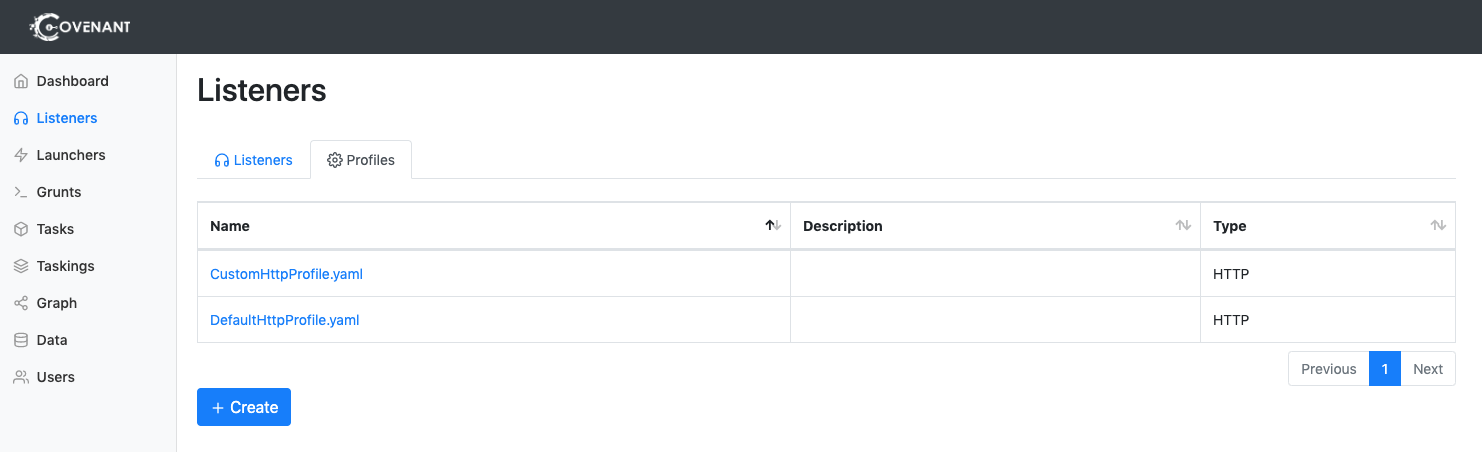
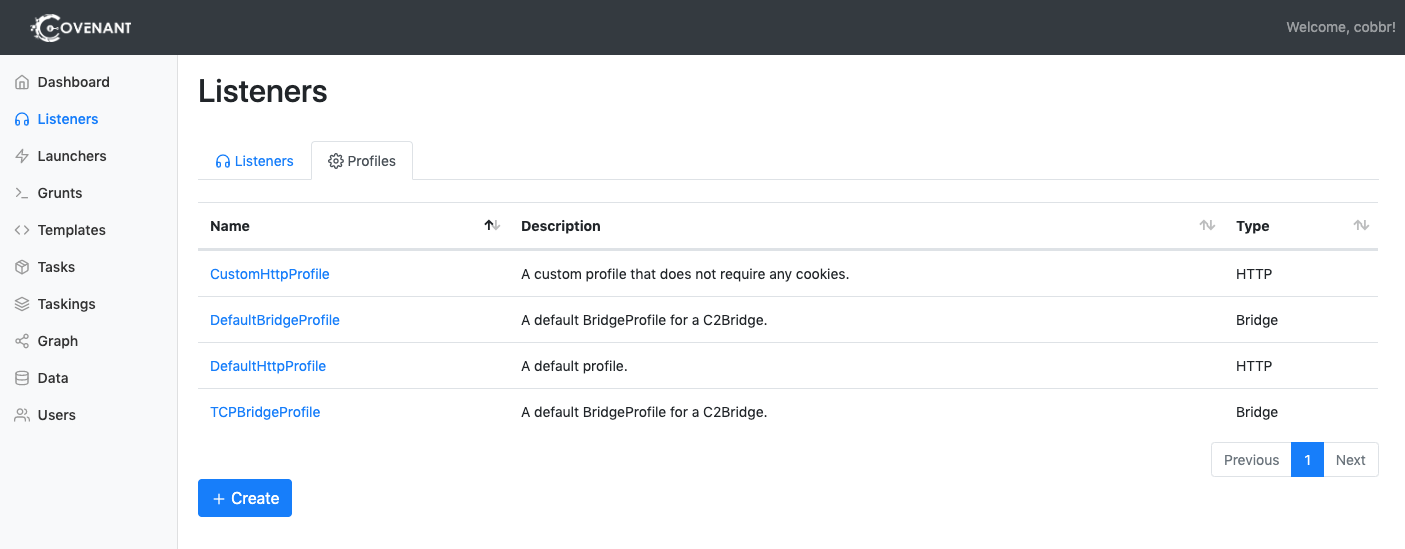
Add C2Bridges info

diff --git a/C2Bridges.md b/C2Bridges.md
@@ -1,0 +1,145 @@
+## C2Bridges
+
+C2Bridges are used to develop an outbound command and control protocol without editing any Covenant code. For developers that feel comfortable integrating new listeners, a new C2 protocol should be added as a first-class new listener type that is fully integrated into the interface. However, it may be faster in some situations to create a C2Bridge outside of Covenant and connect it with a `BridgeListener` for proof-of-concepts or testing out new protocols.
+
+Developers can use the [C2Bridge](https://github.com/cobbr/C2Bridge) project as a template for creating new C2Bridges. Within the C2Bridge project, there is an abstract `C2Bridge` class. A developer can inherit from this class and implement the needed functions to read and write from implants to the BridgeListener using the new chosen C2 protocol.
+
+```
+using System.Threading;
+using System.Threading.Tasks;
+
+namespace C2Bridge
+{
+    /// <summary>
+    /// IC2Bridge is an interface implemented by the C2Bridge class.
+    /// </summary>
+    public interface IC2Bridge
+    {
+        Task RunAsync(CancellationToken token);
+    }
+
+    /// <summary>
+    /// C2Bridge is an abstract class that new C2Bridges should inherit from. 
+    /// </summary>
+    public abstract class C2Bridge : IC2Bridge
+    {
+        // The BridgeConnector handles communication between the Covenant server and the C2Bridge
+        protected BridgeConnector BridgeConnector { get; set; }
+        // The BridgeProfile handles parsing and formatting data passed between the implant and Covenant
+        protected BridgeProfile BridgeProfile { get; set; }
+
+        /// <summary>
+        /// The constructor for the C2Bridge. New C2Bridges should use their own constructor that accepts
+        /// any command line arguments needed for the C2Bridge to function.
+        /// </summary>
+        /// <param name="Connector">The BridgeConnector that handles communication with the Covenant server.</param>
+        /// <param name="Profile">The BridgeProfile that handles the parsing and formatting of data.</param>
+        protected C2Bridge(BridgeConnector Connector, BridgeProfile Profile)
+        {
+            this.BridgeConnector = Connector;
+            this.BridgeProfile = Profile;
+            BridgeConnector.OnReadBridge += OnReadBridge;
+        }
+
+        /// <summary>
+        /// The RunAsync function is the main function that should start the C2Bridge and continue to run until you
+        /// are done with your operation. C2Bridge developers should implement the logic to start and run the listener
+        /// within this function.
+        /// </summary>
+        /// <param name="Token">The CancellationToken that will cancel the C2Bridge if the source of the token is cancelled.</param>
+        /// <returns></returns>
+        public abstract Task RunAsync(CancellationToken Token);
+
+        /// <summary>
+        /// The OnReadBridge function is called each time data is read from the Covenant server meant for an implant.
+        /// C2Bridge developers should implement the logic to determine which implant this data is meant for and write
+        /// this data to the implant.
+        /// </summary>
+        /// <param name="sender">
+        /// Sender is the object that called the OnReadBridge function. C2Bridge developers can safely ignore this parameter.
+        /// </param>
+        /// <param name="args">Args contains the data that should be written from the Covenant server to the implant.</param>
+        protected abstract void OnReadBridge(object sender, BridgeConnector.ReadBridgeArgs args);
+
+        /// <summary>
+        /// The WriteToConnector function handles writing data from an implant to the Covenant server. This logic should be the
+        /// same for all C2Bridge types, but can be overloaded by the C2Bridge developer if custom logic is needed.
+        ///
+        /// When calling this function, the returned GUID string should be used to track implant GUID values by the C2Bridge.
+        /// </summary>
+        /// <param name="Data">The data read from the implant that should be written to the Covenant server.</param>
+        /// <returns>
+        /// Returns the GUID value parsed out of the Data. This value should be used to track implant GUID values by the C2Bridge.
+        /// </returns>
+        protected virtual string WriteToConnector(string Data)
+        {
+            var parsed = this.BridgeProfile.ParseWrite(Data);
+            if (parsed != null)
+            {
+                _ = this.BridgeConnector.Write(this.BridgeProfile.FormatRead(parsed));
+                return parsed.Guid;
+            }
+            return null;
+        }
+
+        /// <summary>
+        /// The GetBridgeMessengerCode function should contain the code to be embedded in the implant for communication with
+        /// the C2Bridge. This function is not actually used anywhere within the project, but is here so that the necessary
+        /// implant code can be found along with the C2Bridge. C2Bridge developers should place the code here for use within
+        /// a BridgeProfile's BridgeMessengerCode property.
+        /// </summary>
+        /// <returns></returns>
+        protected abstract string GetBridgeMessengerCode();
+    }
+}
+```
+
+The C2Bridge project contains an example `TCPC2Bridge` class that inherits from this interface and provides an example of how to implement one.
+
+![TCPC2Bridge](https://github.com/cobbr/Covenant/wiki/images/covenant-tcpc2bridge.png)
+
+Once you have written your new C2Bridge, the constructor call for `TCPC2Bridge` within the `Main()` function can be replaced with the new constructor:
+
+![C2Bridge Constructor](https://github.com/cobbr/Covenant/wiki/images/covenant-c2bridgeconstructor.png)
+
+The abstract `GetBridgeMessengerCode()` method is not actually used anywhere within the C2Bridge project but is used to tie together a C2Bridge with an implant. An implant needs code that is able to read and write to the outbound C2Bridge. This code is specific to a given C2Bridge, and should be placed within the inherited `GetBridgeMessengerCode()` method. A Covenant user that utilizes a C2Bridge will take the `BridgeMessengerCode` from this method and use it within a `BridgeProfile`.
+
+### BridgeProfile
+
+Covenant users that utilize a C2Bridge will need to configure a `BridgeProfile` that is specific to the C2Bridge. The Grunt implants need to know how to read and write to the outbound C2Bridge. The `BridgeProfile.BridgeMessengerCode` property represents the code that will be placed in the implant and is responsible for reading and writing to the outbound C2Bridge. This code should be found in a C2Bridge's `GetBridgeMessengerCode()` method.
+
+Users can create an entirely new `BridgeProfile` or edit the `DefaultBridgeProfile` with the correct `BridgeMessengerCode`. To do so, you'll navigate to the listeners navigation page and select the "Profiles" tab:
+
+![Profiles Table](https://github.com/cobbr/Covenant/wiki/images/covenant-gui-profiles.png)
+
+To create a new profile, click on the "Create" button. To edit a particular profile, click on the name of the profile. Keep in mind, that you cannot edit profiles that are associated with active listeners.
+
+After clicking "Create", select the "BridgeProfile" tab:
+
+![Create BridgeProfile](https://github.com/cobbr/Covenant/wiki/images/covenant-gui-bridgeprofilecreate.png)
+
+The following options will need to be configured when editing or creating a profile:
+
+* **Name** - The `Name` of the profile that will be used throughout the interface. Pick something recognizable!
+* **Description** - The `Description` of the profile. This should be a thorough description of the profile that operators can read and easily understand how the profile works, and the use cases for which it would be appropriate to use the profile. 
+* **MessageTransform** - The `MessageTransform` is a unique way to specify how the communication data will be transformed before being placed into the formats specified in the `ReadFormat` and `WriteFormat`. An `MessageTransform` should be a static C# class named `MessageTransform` that includes a public `Transform` and a public `Invert` function. The class can transform the data in any way that you desire, as long as the Transform and Invert functions mirror each other (i.e. `data == MessageTransform.Invert(MessageTransform.Transform(data))`). The `MessageTransform` class must be cross-platform compatible and compile under `Net40`, `Net35`, and `NetCore21`.
+* **ReadFormat** - The `ReadFormat` is the format of a message when a Grunt reads data from a C2Bridge. The format must include a location for the data and Grunt GUID to be placed. Include the string "{DATA}" to indicate the location that the data should be placed and the string "{GUID}" to indicate the location that the GUID should be placed.
+* **WriteFormat** - The `WriteFormat` is the format of a message when a Grunt writes data to a C2Bridge. The format must include a location for the data and Grunt GUID to be placed. Include the string "{DATA}" to indicate the location that the data should be placed and the string "{GUID}" to indicate the location that the GUID should be placed.
+* **BridgeMessengerCode** - The `BridgeMessengerCode` is the code that will be placed in the implant and is responsible for reading and writing to the outbound C2Bridge. This code should be found in a C2Bridge's `GetBridgeMessengerCode()` method.
+
+When configuring these options, the Covenant user has total freedom to configure any of these values any way they would like, except for the `BridgeMessengerCode` property. The `BridgeMessengerCode` propery must be taken from the C2Bridge.
+
+If a Covenant user does edit the `ReadFormat` and/or `WriteFormat` properties, the C2Bridge must be informed of this change when starting the C2Bridge. The [C2Bridge](https://github.com/cobbr/C2Bridge) project accepts a `--profile <profile.yaml>` parameter that accepts a profile YAML file, which can optionally be used when these properties are customized.
+
+### Summary
+
+The overall process for developing and utilizing a C2Bridge is as follows:
+
+1. Write the "listener" code for reading and writing on a custom command and control protocol to an implant.
+2. Write the implant code for reading and writing on a custom command and control protocol to a "listener".
+3. Implement a C2Bridge using the "listener" and implant code that inherits from the abstract `C2Bridge` class from the [C2Bridge](https://github.com/cobbr/C2Bridge) project. Reference the `TCPC2Bridge` class as an example.
+4. Within Covenant, create a `BridgeProfile` that uses the `BridgeMessengerCode` found in the C2Bridge's `GetBridgeMessengerCode()` method.
+5. Start a [BridgeListener](https://github.com/cobbr/Covenant/wiki/Bridge-Listeners) that uses the created `BridgeProfile`.
+6. Start the C2Bridge that connects to the BridgeListener. If you customized the BridgeProfile's `ReadFormat` and/or `WriteFormat` properties, use the optional `--profile <profile.yaml>` CLI parameter to inform the C2Bridge of these customizations.
+7. Generate launchers that utilize the `GruntBridge` ImplantTemplate and the BridgeListener you started.
+8. Test out your new launcher that utilizes a custom command and control protocol!

diff --git a/Listeners.md b/Listeners.md
@@ -1,8 +1,8 @@
 ## Listeners
 
-To get an operation started, you will want to start a new listener. Currently, Covenant supports HTTP listeners only.
+To get an operation started, you will want to start a new listener. Covenant supports native listeners and "bridge" listeners. This guide is for native listeners, the `BridgeListener` is discussed [here](https://github.com/cobbr/Covenant/wiki/Bridge-Listeners). Currently, the only built-in, native listener that Covenant supports is the `HttpListener`.
 
-To create a new HTTP listener, you'll first navigate to the Listeners navigation page:
+To create a new `Httplistener`, you'll first navigate to the Listeners navigation page:
 
 ![Listeners page](https://github.com/cobbr/Covenant/wiki/images/covenant-gui-listeners.png)
 
@@ -13,14 +13,15 @@ Currently, there are no listeners in the listener table, but this will change on
 The following options will need to be configured when creating the listener:
 
 * **Name** - The `Name` of the listener that will be used throughout the interface. Pick something recognizable!
-* **Url** - The `Url` is the *callback* URL, and is the url that Grunts will be directly connecting to. If you are using redirectors, this should be the url that points to the external redirector. The URL should be a combination of the `ConnectAddress`, `BindPort`, and `UseSSL` values, and should be of the form: `http(s)://<connectaddress>:<bindport>`.
-* **ConnectAddress** - The `ConnectAddress` is the *callback* address, and represents the hostname portion of the `Url`.
 * **BindAddress** - The `BindAddress` is the local ip address that the listener will bind to. This can be helpful in cases where the Covenant host has multiple nics. Usually, this value will be `0.0.0.0`.
-* **BindPort** - The `BindPort` is the local port that the listener will bind to. This also represents the port portion of the `Url`.
+* **BindPort** - The `BindPort` is the local port that the listener will bind to.
+* **ConnectPort** - The `ConnectPort` is the *callback* port that Grunts will be directly connecting to. This also represents the port portion of the `Urls`.
+* **ConnectAddresses** - The `ConnectAddresses` are the *callback* addresses, and represents the hostname portion of the `Url`. You must specify at least one `ConnectAddress` and can specify as many as you would like. You can specify multiple `ConnectAddresses` for failure prevention. Grunts will attempt to connect to each of these `ConnectAddresses` and will use the first one that succeeds. If you are using redirectors, this should be the url that points to the external redirector.
+* **Urls** - The `Urls` are the *callback* URLs, and are the urls that Grunts will be directly connecting to. The URLs are calculated based on a combination of the `ConnectAddresses`, `BindPort`, and `UseSSL` values, and should be of the form: `http(s)://<connectaddress>:<bindport>`. The `Urls` are calculated for you, you should not need to manually edit these values.
 * **UseSSL** - The `UseSSL` value determines if the listener should use the HTTPS or HTTP protocol. If `UseSSL` value is true, an `SSLCertificate` needs to be provided.
-* **HttpProfile** - The `HttpProfile` determines the behavior of Grunt and listener communication.
 * **SSLCertificate** - The `SSLCertificate` is the certificate used by the listener, if `UseSSL` is true. The certificate is expected be in PFX format.
 * **SSLCertificatePassword** - The `SSLCertificatePassword` is the password that is being used to protect the `SSLCertificate`.
+* **HttpProfile** - The `HttpProfile` determines the behavior of Grunt and Listener communication.
 
 Once these options are configured, click on the "Create" button to start the listener. The newly active listener should now appear in the listeners table:
 

diff --git a/Listener-Profiles.md b/Listener-Profiles.md
@@ -16,8 +16,8 @@ The following options will need to be configured when editing or creating a prof
 
 * **Name** - The `Name` of the profile that will be used throughout the interface. Pick something recognizable!
 * **Description** - The `Description` of the profile. This should be a thorough description of the profile that operators can read and easily understand how the profile works, and the use cases for which it would be appropriate to use the profile. 
+* **MessageTransform** - The `MessageTransform` is a unique way to specify how the communication data will be transformed before being placed into the formats specified in the `HttpPostRequest`, `HttpGetResponse`, and `HttpPostReponse`. An `MessageTransform` should be a static C# class named `MessageTransform` that includes a public `Transform` and a public `Invert` function. The class can transform the data in any way that you desire, as long as the Transform and Invert functions mirror each other (i.e. `data == MessageTransform.Invert(MessageTransform.Transform(data))`). The `MessageTransform` class must be cross-platform compatible and compile under `Net40`, `Net35`, and `NetCore21`.
 * **HttpUrls** - The `HttpUrls` is a list of one or more urls that grunts will callback to, including any query parameters. A grunt will randomly select one of these urls each time it polls the server. The grunt GUID must be present in either a query string in *each* HttpUrl **or** in a single HttpRequestHeader, in either the name or value field. To specify the GUID in the HttpUrls, include the string "{GUID}" in a **query string** to indicate the location that the GUID should be placed.
-* **HttpMessageTransform** - The `HttpMessageTransform` is a unique way to specify how the communication data will be transformed before being placed into the formats specified in the `HttpPostRequest`, `HttpGetResponse`, and `HttpPostReponse`. An `HttpMessageTransform` should be a static C# class named `HttpMessageTransform` that includes a public `Transform` and a public `Invert` function. The class can transform the data in any way that you desire, as long as the Transform and Invert functions mirror each other (i.e. `data == HttpMessageTransform.Invert(HttpMessageTransform.Transform(data))`). The `HttpMessageTransform` class must be cross-platform compatible and compile under `Net40`, `Net35`, and `NetCore21`.
 * **HttpRequestHeaders** - The `HttpRequestHeaders` are name/value pairs that will be included as HTTP request headers in HTTP requests from grunts to the listener. Every header will be included in every request. The grunt GUID must be present in either the name or value field of one of the headers **or** in the query string of *each* HttpUrl. The specify the GUID in an HttpRequestHeader, include the string "GUID" in a header name or value to indicate the location that the GUID should be placed.
 * **HttpResponseHeaders** - The `HttpResponseHeaders` are name/value pairs that will be includes as HTTP response headers in HTTP responses from the listener to grunts. Every header will be included in every response.
 * **HttpPostRequest** - The `HttpPostRequest` is the format of the HTTP request when a grunt posts data back to a listener. The format must include a location for the data to be placed. Include the string "{0}" to indicate the location that the data should be placed.

diff --git a/Bridge-Listeners.md b/Bridge-Listeners.md
@@ -1,0 +1,32 @@
+## Bridge Listeners
+
+To get an operation started, you will want to start a new listener. Covenant supports native listeners and "bridge" listeners. This guide is for bridge listeners, native listeners are discussed [here](https://github.com/cobbr/Covenant/wiki/Listeners).
+
+A `BridgeListener` is used to communicate with a [C2Bridge](https://github.com/cobbr/C2Bridge). A C2Bridge provides an outbound C2 protocol that Grunts will communicate with. A `BridgeListener` is a simple TCP connection that allows a C2Bridge to communicate the C2 traffic with Covenant. This guide is for the `BridgeListener`, C2Bridges are discussed [here](https://github.com/cobbr/Covenant/wiki/C2Bridges).
+
+To create a new `BridgeListener`, you'll first navigate to the Listeners navigation page:
+
+![Listeners page](https://github.com/cobbr/Covenant/wiki/images/covenant-gui-listeners.png)
+
+Currently, there are no listeners in the listener table, but this will change once we create one. Click on the "Create" button to configure the listener, and select the "BridgeListener" tab:
+
+![Create Bridge Listener](https://github.com/cobbr/Covenant/wiki/images/covenant-gui-bridgelistenercreate.png)
+
+The following options will need to be configured when creating the listener:
+
+* **Name** - The `Name` of the listener that will be used throughout the interface. Pick something recognizable!
+* **BindAddress** - The `BindAddress` is the local ip address that the listener will bind to. This can be helpful in cases where the Covenant host has multiple NICs. Usually, this value will be `0.0.0.0`.
+* **BindPort** - The `BindPort` is the local port that the listener will bind to. This is the port that the C2Bridge will connect to.
+* **ConnectPort** - The `ConnectPort` is the *callback* port that Grunts will be directly connecting to. This is the port the C2Bridge should listen on.
+* **ConnectAddress** - The `ConnectAddress` is the *callback* address that Grunts will be directly connecting to. This should be the external address of the C2Bridge, or if you are using redirectors this should be the address that points to the external redirector.
+* **BridgeProfile** - The `BridgeProfile` determines the behavior of Grunt and Listener communication. **The profile must specify BridgeMessengerCode that is compatible with the C2Bridge you choose to use.**
+
+Once these options are configured, click on the "Create" button to start the listener. The newly active listener should now appear in the listeners table:
+
+![Listener Table](https://github.com/cobbr/Covenant/wiki/images/covenant-gui-bridgelistenercreated.png)
+
+Listeners can be started and stopped by clicking on the listener's name within the listeners table. Selecting a listener will also reveal the detailed information about the listener that was configured earlier:
+
+![Listener Info](https://github.com/cobbr/Covenant/wiki/images/covenant-gui-bridgelistenerinfo.png)
+
+You can start and stop the listener using the buttons at the bottom of the page.

diff --git a/Home.md b/Home.md
@@ -12,7 +12,9 @@ Covenant is a .NET command and control framework and web application that aims t
 8. [Graph View](https://github.com/cobbr/Covenant/wiki/Graph-View)
 9. [Data](https://github.com/cobbr/Covenant/wiki/Data)
 10. [Task Contribution Guide](https://github.com/cobbr/Covenant/wiki/Task-Contribution-Guide)
-11. [Using the API](https://github.com/cobbr/Covenant/wiki/Using-The-API)
+11. [C2Bridges](https://github.com/cobb/Covenant/wiki/C2Bridges)
+12. [Bridge Listeners](https://github.com/cobbr/Covenant/wiki/Bridge-Listeners)
+13. [Using the API](https://github.com/cobbr/Covenant/wiki/Using-The-API)
 
 # Features
 
